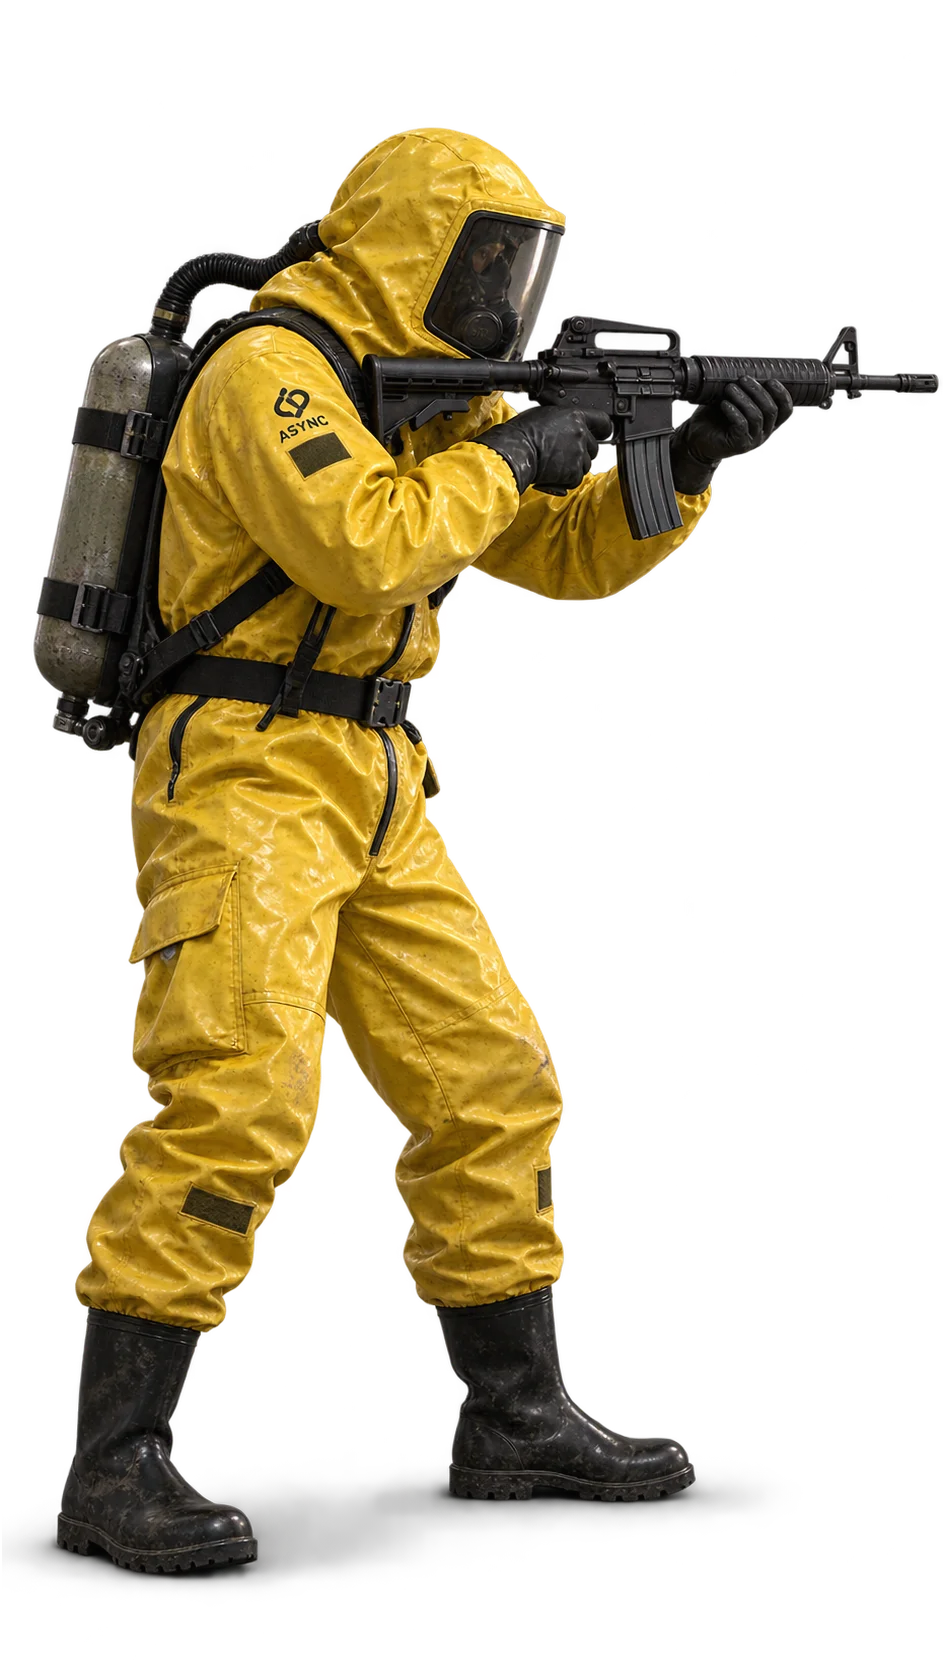
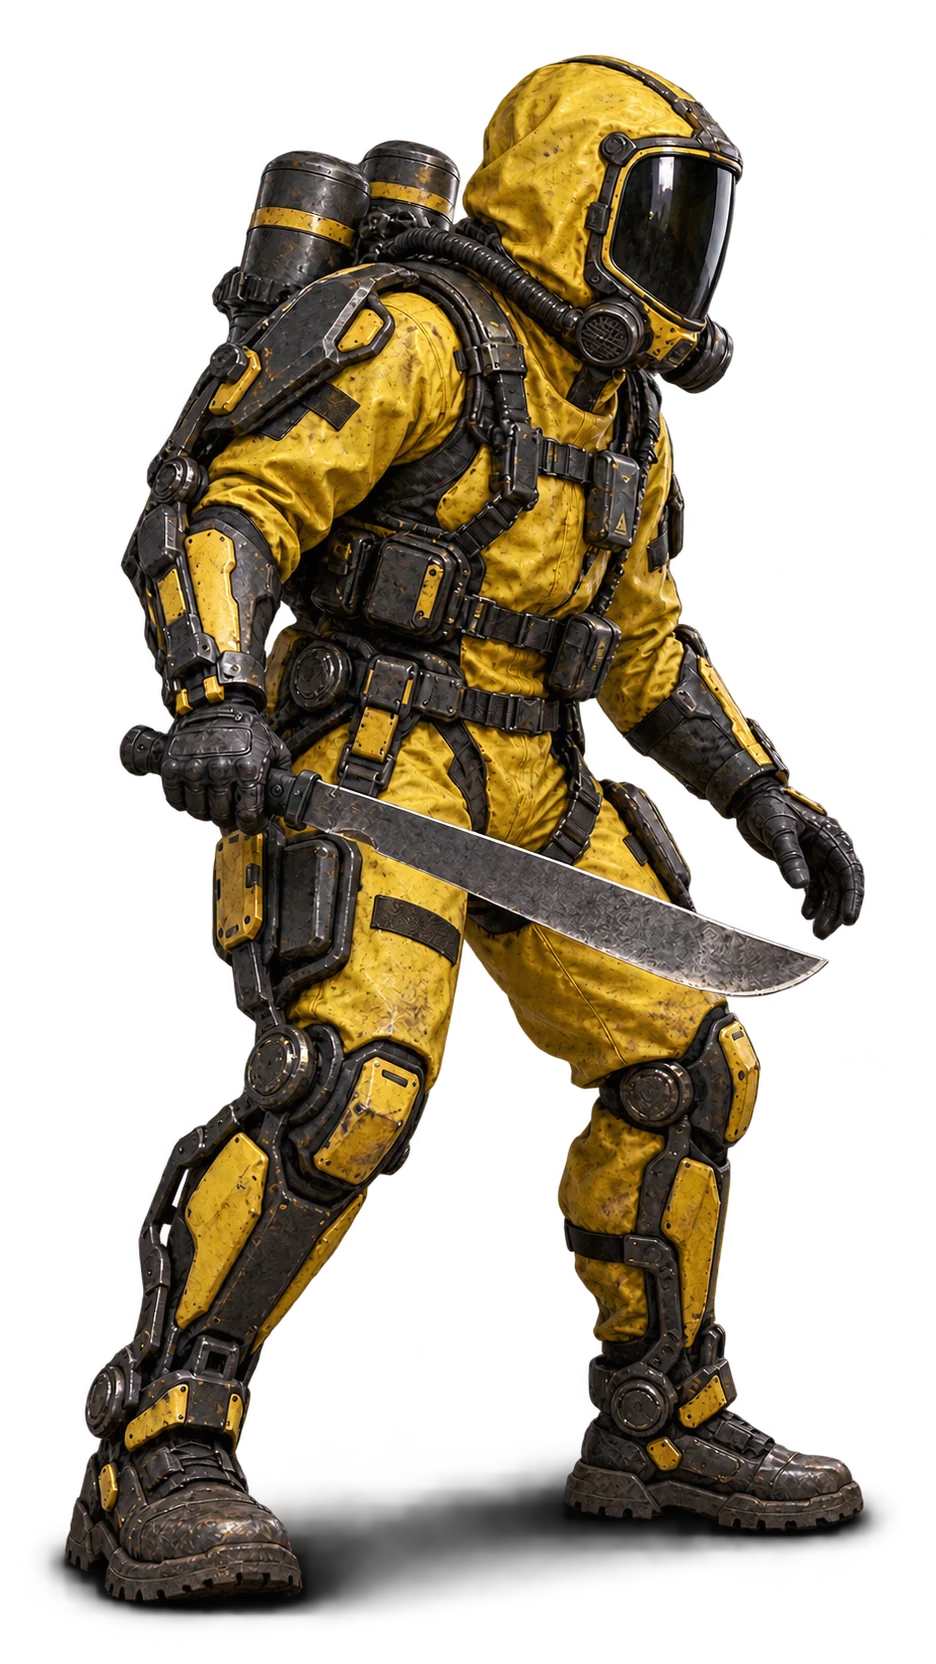
Replace Research ASYNC Member sprite from Drive

diff --git a/android-apk/verify-four-1193a-entities.py b/android-apk/verify-four-1193a-entities.py
@@ -10,7 +10,7 @@ ids = {
     "the_lifeform_bacteria_01": ("Bacterial Stalker", "521831fafa3a4d581580d48ae202039057d79a03"),
     "the_lifeform_bacteria_02": ("Bacterial Strider", "f74724c20338a13953c688e1a4c419806f0148ad"),
     "the_lifeform_bacteria_03": ("Bacterial Weaver", "f8bdaf08d0ae9d02b31601e11bc0a5fcab5be463"),
-    "async_member_rifle_aim_right_01": ("Research Async Member", "1064e3e8b3333ddcf27861d36b2dfcdde03b6cc5"),
+    "async_member_rifle_aim_right_01": ("Research Async Member", "c6f4ded0598c5466b3b0034579bf281b1c2013b2"),
 }
 
 for key, (name, historical_blob_sha) in ids.items():
